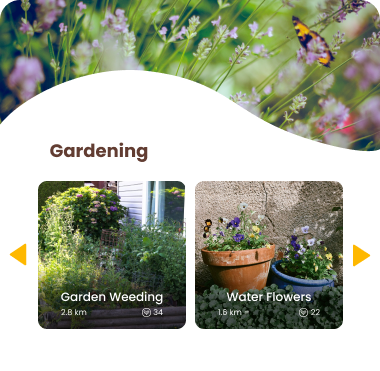
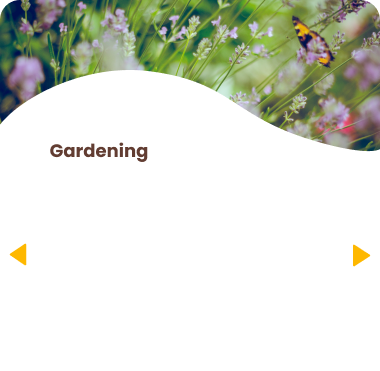
added tasks

diff --git a/app/screens/Work.js b/app/screens/Work.js
@@ -3,6 +3,7 @@ import React, { useRef } from "react";
 import { Animated, ImageBackground, Text, TouchableOpacity, ScrollView, Image, StyleSheet, Platform, StatusBar, View, Button, LogBox } from 'react-native';
 import colors from '../config/colors';
 import { render } from 'react-dom';
+import { color } from 'react-native-reanimated';
 
 function Work({ navigation }) {
     const fadeAnim1 = useRef(new Animated.Value(0)).current;
@@ -12,8 +13,9 @@ function Work({ navigation }) {
     const fadein1 = () => {
         // Will change fadeAnim value to 1 in 5 seconds
         Animated.timing(fadeAnim1, {
-            toValue: 1.5,
+            toValue: 1,
             duration: 90,
+            useNativeDriver: false,
         }).start();
     };
 
@@ -22,6 +24,7 @@ function Work({ navigation }) {
         Animated.timing(fadeAnim2, {
             toValue: 1.5,
             duration: 90,
+            useNativeDriver: false,
         }).start();
     };
 
@@ -30,6 +33,7 @@ function Work({ navigation }) {
         Animated.timing(fadeAnim3, {
             toValue: 1.5,
             duration: 90,
+            useNativeDriver: false,
         }).start();
     };
 
@@ -114,12 +118,27 @@ function Work({ navigation }) {
                             </TouchableOpacity>
 
                         </View>
+                        <View>
+                            <ImageBackground
+                                source={require('../assets/gardening.png')}
+                                style={styles.gardening}
+                            >
+                                <View style={styles.gardenTasks}>
+                                    <TouchableOpacity onPress={() => navigation.navigate('Gardening')}>
+                                        <Image source={require('../assets/garden1.png')}
+                                            style={{ flex: 1, marginRight: 5, borderRadius: 13 }}>
 
-                        <Image
-                            source={require('../assets/gardening.png')}
-                            style={styles.gardening}
-                        >
-                        </Image>
+                                        </Image>
+                                    </TouchableOpacity>
+                                    <TouchableOpacity>
+                                        <Image source={require('../assets/garden2.png')}
+                                            style={{ flex: 1, marginLeft: 5, borderRadius: 13 }}>
+
+                                        </Image>
+                                    </TouchableOpacity>
+                                </View>
+                            </ImageBackground>
+                        </View>
                         <Image
                             source={require('../assets/plumbing.png')}
                             style={styles.plumbing}
@@ -138,7 +157,7 @@ function Work({ navigation }) {
 const styles = StyleSheet.create({
     parentContainer: {
         flex: 1,
-
+        width: '100%'
     },
     fadingContainer: {
         backgroundColor: colors.secondary,
@@ -147,6 +166,15 @@ const styles = StyleSheet.create({
         borderRadius: 9,
         width: '92%',
         alignSelf: 'center'
+    },
+    gardenTasks: {
+        flexDirection: 'row',
+        alignSelf: 'center',
+        alignContent: 'center',
+        width: '83%',
+        marginTop: 182,
+        paddingBottom: 39,
+        marginLeft: 8,
     },
     container: {
         flex: 1,
@@ -193,6 +221,9 @@ const styles = StyleSheet.create({
         marginBottom: 50,
     },
     gardening: {
+        flex: 1,
+        width: '100%',
+        height: '100%',
         alignSelf: 'center',
         marginTop: 30,
     },

diff --git a/app/screens/Gardening.js b/app/screens/Gardening.js
@@ -1,0 +1,96 @@
+import 'react-native-gesture-handler';
+import React, { useRef } from "react";
+import { Animated, ImageBackground, Text, TouchableOpacity, ScrollView, Image, StyleSheet, Platform, StatusBar, View, Button, LogBox } from 'react-native';
+import colors from '../config/colors';
+import { render } from 'react-dom';
+import { color } from 'react-native-reanimated';
+
+function Gardening({ navigation }) {
+
+    return (
+        <View style={styles.parentContainer}>
+            <View style={styles.container}>
+                <View style={styles.topBar}>
+                    <Image
+                        source={require('../assets/gardening_top.png')}
+                    >
+                    </Image>
+                </View>
+                <View style={styles.scroll}>
+                    <ScrollView >
+                        <View>
+                            <Image
+                                source={require('../assets/garden_photo.png')} style={styles.photo}
+                            >
+                            </Image>
+                        </View>
+                        <View style={styles.mainContainer}>
+                            <Text >Hello</Text>
+                        </View>
+                        <TouchableOpacity style={styles.bottomBar}
+                            onPress={() => navigation.navigate('Message')}>
+                            <Image
+                                source={require('../assets/sendmsg_bar.png')}
+                            >
+                            </Image>
+                        </TouchableOpacity>
+                    </ScrollView>
+                </View>
+            </View>
+
+        </View>
+
+    )
+        ;
+}
+
+const styles = StyleSheet.create({
+    parentContainer: {
+        flex: 1,
+        width: '100%'
+    },
+    container: {
+        flex: 1,
+        backgroundColor: colors.primary,
+        alignItems: 'center',
+        justifyContent: 'center',
+    },
+    topBar: {
+        flex: 2,
+        backgroundColor: colors.secondary,
+        width: '100%',
+        justifyContent: 'center',
+        alignItems: 'center',
+    },
+    mainContainer: {
+        backgroundColor: colors.beige,
+        width: '90%',
+        height: 400,
+        justifyContent: 'center',
+        alignSelf: 'center',
+        alignItems: 'center',
+        borderRadius: 20,
+        marginBottom: 40,
+    },
+    bottomBar: {
+        flex: 2,
+        backgroundColor: colors.secondary,
+        width: '100%',
+        height: 52,
+        justifyContent: 'center',
+        alignItems: 'center',
+    },
+    photo: {
+        marginTop: 30,
+        marginBottom: 30,
+        alignSelf: 'center',
+    },
+    scroll: {
+        flex: 25,
+        width: '100%',
+        backgroundColor: colors.primary,
+    },
+
+})
+
+export default Gardening;

diff --git a/app/screens/Message.js b/app/screens/Message.js
@@ -13,15 +13,8 @@ const Message = () => {
         // Will change fadeAnim value to 1 in 5 seconds
         Animated.timing(fadeAnim, {
             toValue: 1,
-            duration: 5000
-        }).start();
-    };
-
-    const fadeOut = () => {
-        // Will change fadeAnim value to 0 in 5 seconds
-        Animated.timing(fadeAnim, {
-            toValue: 0,
-            duration: 5000
+            duration: 5000,
+            useNativeDriver: true,
         }).start();
     };
 
@@ -37,7 +30,6 @@ const Message = () => {
             </Animated.View>
             <View style={styles.buttonRow}>
                 <Button title="Fade In" onPress={fadeIn} />
-                <Button title="Fade Out" onPress={fadeOut} />
             </View>
         </View>
     );

diff --git a/App.js b/App.js
@@ -10,6 +10,7 @@ import { createStackNavigator } from '@react-navigation/stack';
 import Message from './app/screens/Message';
 import Work from './app/screens/Work';
 import SendRequest from './app/screens/SendRequest';
+import Gardening from './app/screens/Gardening';
 
 const Stack = createStackNavigator();
 
@@ -26,6 +27,7 @@ function App() {
         <Stack.Screen name="SendRequest" component={SendRequest} />
         <Stack.Screen name="Work" component={Work} />
         <Stack.Screen name="Message" component={Message} />
+        <Stack.Screen name="Gardening" component={Gardening} />
       </Stack.Navigator>
     </NavigationContainer>
   );

diff --git a/app/screens/Dashboard.js b/app/screens/Dashboard.js
@@ -6,7 +6,6 @@ import { back } from 'react-native/Libraries/Animated/src/Easing';
 import "firebase/firestore";
 import * as firebase from 'firebase';
 import Login from './Login';
-import BottomBar from './BottomBar';
 
 function Dashboard({ route, navigation }) {
     const { userValue } = route.params;
